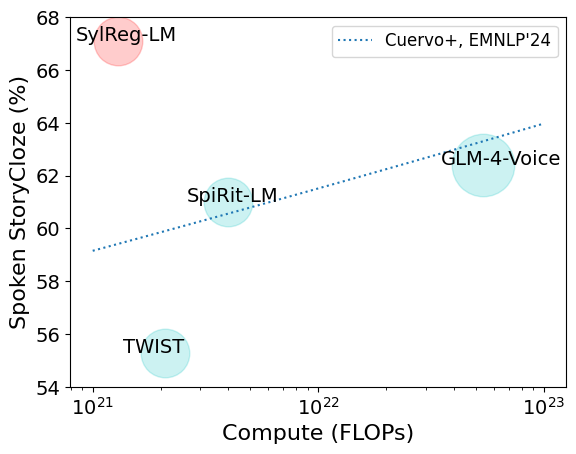
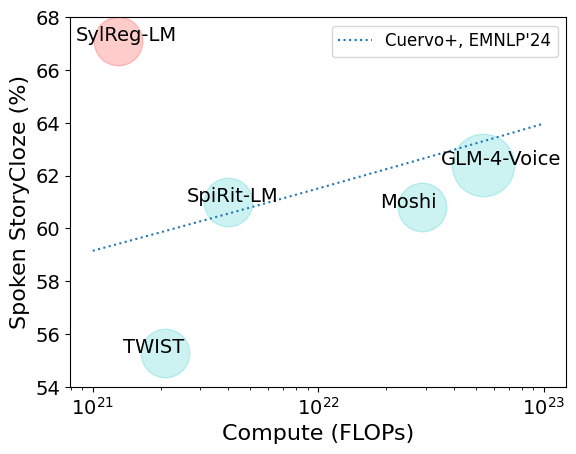
add Moshi to results

Changed region(s): [[0.6562, 0.4009, 0.7812, 0.5242]]

diff --git a/src/speechlm/data/utils.py b/src/speechlm/data/utils.py
@@ -198,31 +198,32 @@ def tokenize_eval(config):
     sSC.push_to_hub(config.dataset.name, "sSC")
 
 
-def get_aligner(
-    aligner_name: str = "Qwen/Qwen3-ForcedAligner-0.6B-hf",
-):
-    processor = AutoProcessor.from_pretrained(aligner_name)
-    model = AutoModelForTokenClassification.from_pretrained(aligner_name, dtype=torch.bfloat16, device_map="auto")
+class ForcedAligner:
+    def __init__(self, aligner_name: str = "Qwen/Qwen3-ForcedAligner-0.6B-hf"):
+        self.processor = AutoProcessor.from_pretrained(aligner_name)
+        self.model = AutoModelForTokenClassification.from_pretrained(
+            aligner_name, dtype=torch.bfloat16, device_map="auto"
+        )
 
     @torch.inference_mode()
-    def align(input_values: torch.Tensor, text: str) -> List[Dict[str, Any]]:
+    def __call__(self, input_values: torch.Tensor, text: str) -> List[Dict[str, Any]]:
         # Step 1: Prepare alignment inputs
-        inputs, word_lists = processor.prepare_forced_aligner_inputs(
+        inputs, word_lists = self.processor.prepare_forced_aligner_inputs(
             audio=input_values.squeeze(0).numpy(),
             transcript=text,
             language="English",
         )
-        inputs = inputs.to(model.device, model.dtype)
+        inputs = inputs.to(self.model.device, self.model.dtype)
 
         # Step 2: Run forced aligner
-        aligner_outputs = model(**inputs)
+        aligner_outputs = self.model(**inputs)
 
         # Step 3: Decode timestamps
-        timestamps = processor.decode_forced_alignment(
+        timestamps = self.processor.decode_forced_alignment(
             logits=aligner_outputs.logits,
             input_ids=inputs["input_ids"],
             word_lists=word_lists,
-            timestamp_token_id=model.config.timestamp_token_id,
+            timestamp_token_id=self.model.config.timestamp_token_id,
         )[0]
 
         aligned_text = [
@@ -234,8 +235,6 @@ def get_aligner(
             for item in timestamps
         ]
         return aligned_text
-
-    return align
 
 
 def add_aligned_units(example: Dict[str, Any]) -> Dict[str, Any]:

diff --git a/src/speechlm/data/emilia.py b/src/speechlm/data/emilia.py
@@ -33,7 +33,7 @@ from tqdm import tqdm
 
 from ...bigvgan.data import mel_spectrogram
 from ...s5hubert import SylRegForSyllableDiscovery
-from .utils import add_aligned_units, filler_pattern1, filler_pattern2, get_aligner, repeat_pattern1, repeat_pattern2
+from .utils import ForcedAligner, add_aligned_units, filler_pattern1, filler_pattern2, repeat_pattern1, repeat_pattern2
 
 out_emilia = {
     "EN_B00013_S00913",
@@ -163,7 +163,7 @@ def tokenize_emilia(
     dataset = dataset.with_format("torch")
 
     encoder = SylRegForSyllableDiscovery.from_pretrained(model_name_or_path, device_map="cuda")
-    aligner = get_aligner()
+    aligner = ForcedAligner()
 
     Path(data_dir).mkdir(parents=True, exist_ok=True)
     manifest_path = Path(data_dir) / f"manifest{shard_index}.json"
@@ -210,7 +210,7 @@ def tokenize_yodas(
     dataset = dataset.with_format("torch")
 
     encoder = SylRegForSyllableDiscovery.from_pretrained(model_name_or_path, device_map="cuda")
-    aligner = get_aligner()
+    aligner = ForcedAligner()
 
     Path(data_dir).mkdir(parents=True, exist_ok=True)
     manifest_path = Path(data_dir) / f"manifest{shard_index}.json"

diff --git a/src/speechlm/data/peoples_speech.py b/src/speechlm/data/peoples_speech.py
@@ -7,10 +7,10 @@ from tqdm import tqdm
 
 from ...s5hubert import SylRegForSyllableDiscovery
 from .utils import (
+    ForcedAligner,
     add_aligned_units,
     filler_pattern1,
     filler_pattern2,
-    get_aligner,
     repeat_pattern1,
     repeat_pattern2,
     single_word_pattern,
@@ -40,7 +40,7 @@ def tokenize_clean(
     dataset = dataset.with_format("torch")
 
     encoder = SylRegForSyllableDiscovery.from_pretrained(model_name_or_path, device_map="cuda")
-    aligner = get_aligner()
+    aligner = ForcedAligner()
 
     Path(data_dir).mkdir(parents=True, exist_ok=True)
     manifest_path = Path(data_dir) / f"manifest_clean{shard_index}.json"
@@ -76,7 +76,7 @@ def tokenize_clean_sa(
     dataset = dataset.with_format("torch")
 
     encoder = SylRegForSyllableDiscovery.from_pretrained(model_name_or_path, device_map="cuda")
-    aligner = get_aligner()
+    aligner = ForcedAligner()
 
     Path(data_dir).mkdir(parents=True, exist_ok=True)
     manifest_path = Path(data_dir) / "manifest_clean_sa.json"

diff --git a/src/speechlm/data/librilight.py b/src/speechlm/data/librilight.py
@@ -36,7 +36,7 @@ from tqdm import tqdm
 from transformers.models.whisper.english_normalizer import ADDITIONAL_DIACRITICS
 
 from ...s5hubert import SylRegForSyllableDiscovery
-from .utils import add_aligned_units, get_aligner
+from .utils import ForcedAligner, add_aligned_units
 
 vocab = "abcdefghijklmnopqrstuvwxyzABCDEFGHIJKLMNOPQRSTUVWXYZ'\",.?! ;:()[]—_" + "".join(ADDITIONAL_DIACRITICS)
 pattern = f"[^{re.escape(vocab)}]"
@@ -185,7 +185,7 @@ def tokenize_libriheavy(
     dataset = dataset.shard(num_shards=num_shards, index=shard_index)
 
     encoder = SylRegForSyllableDiscovery.from_pretrained(config.speech2unit.model_name_or_path, device_map="cuda")
-    aligner = get_aligner()
+    aligner = ForcedAligner()
 
     manifest_path = Path(data_dir) / f"manifest{shard_index}.json"
 

diff --git a/src/speechlm/data/tinystories.py b/src/speechlm/data/tinystories.py
@@ -8,7 +8,7 @@ from kokoro import KPipeline
 from tqdm import tqdm
 
 from ...s5hubert import SylRegForSyllableDiscovery
-from .utils import add_aligned_units, get_aligner
+from .utils import ForcedAligner, add_aligned_units
 
 vocab = "abcdefghijklmnopqrstuvwxyzABCDEFGHIJKLMNOPQRSTUVWXYZ'\",.?! ;:0123456789-%"
 oov_pattern = re.compile(f"[^{re.escape(vocab)}]")
@@ -26,7 +26,7 @@ def tokenize_tinystories(
     dataset = dataset.shard(num_shards, shard_index)
 
     encoder = SylRegForSyllableDiscovery.from_pretrained(model_name_or_path, device_map="cuda")
-    aligner = get_aligner()
+    aligner = ForcedAligner()
 
     pipeline = KPipeline(lang_code="a")
 

diff --git a/src/speechlm/data/cosmopedia.py b/src/speechlm/data/cosmopedia.py
@@ -8,7 +8,7 @@ from kokoro import KPipeline
 from tqdm import tqdm
 
 from ...s5hubert import SylRegForSyllableDiscovery
-from .utils import add_aligned_units, get_aligner
+from .utils import ForcedAligner, add_aligned_units
 
 vocab = "abcdefghijklmnopqrstuvwxyzABCDEFGHIJKLMNOPQRSTUVWXYZ'\",.?! ;-"
 oov_pattern = re.compile(f"[^{re.escape(vocab)}]")
@@ -38,7 +38,7 @@ def tokenize_cosmopedia(
     dataset = dataset.shard(num_shards, shard_index)
 
     encoder = SylRegForSyllableDiscovery.from_pretrained(model_name_or_path, device_map="cuda")
-    aligner = get_aligner()
+    aligner = ForcedAligner()
 
     pipeline = KPipeline(lang_code="a")
 

diff --git a/src/speechlm/data/librispeech.py b/src/speechlm/data/librispeech.py
@@ -1,12 +1,12 @@
 from datasets import concatenate_datasets, load_dataset
 
 from ...s5hubert import SylRegForSyllableDiscovery
-from .utils import add_aligned_units, get_aligner
+from .utils import ForcedAligner, add_aligned_units
 
 
 def get_map_fn(model_name_or_path: str = "ryota-komatsu/SylReg-Distill"):
     encoder = SylRegForSyllableDiscovery.from_pretrained(model_name_or_path, device_map="cuda")
-    aligner = get_aligner()
+    aligner = ForcedAligner()
 
     def map_fn(example):
         input_values = example["audio"]["array"].unsqueeze(0)

diff --git a/src/speechlm/data/voxpopuli.py b/src/speechlm/data/voxpopuli.py
@@ -1,12 +1,12 @@
 from datasets import Audio, load_dataset
 
 from ...s5hubert import SylRegForSyllableDiscovery
-from .utils import add_aligned_units, get_aligner
+from .utils import ForcedAligner, add_aligned_units
 
 
 def get_map_fn(model_name_or_path: str = "ryota-komatsu/SylReg-Distill"):
     encoder = SylRegForSyllableDiscovery.from_pretrained(model_name_or_path, device_map="cuda")
-    aligner = get_aligner()
+    aligner = ForcedAligner()
 
     def map_fn(example):
         input_values = example["audio"]["array"].unsqueeze(0)

diff --git a/README.md b/README.md
@@ -172,8 +172,8 @@ qsub -g ${GROUP_NAME} scripts/run_speechlm_deepspeed.bash configs/speechlm/defau
   author    = {Komatsu, Ryota and Kawakita, Kota and Okamoto, Takuma and Shinozaki, Takahiro},
   title     = {Speaker-Disentangled Chunk-Wise Regression for Syllabic Tokenization},
   year      = {2026},
-  volume    = {},
-  journal   = {},
+  volume    = {7},
+  journal   = {IEEE Open Journal of Signal Processing},
   pages     = {},
 }
 ```
